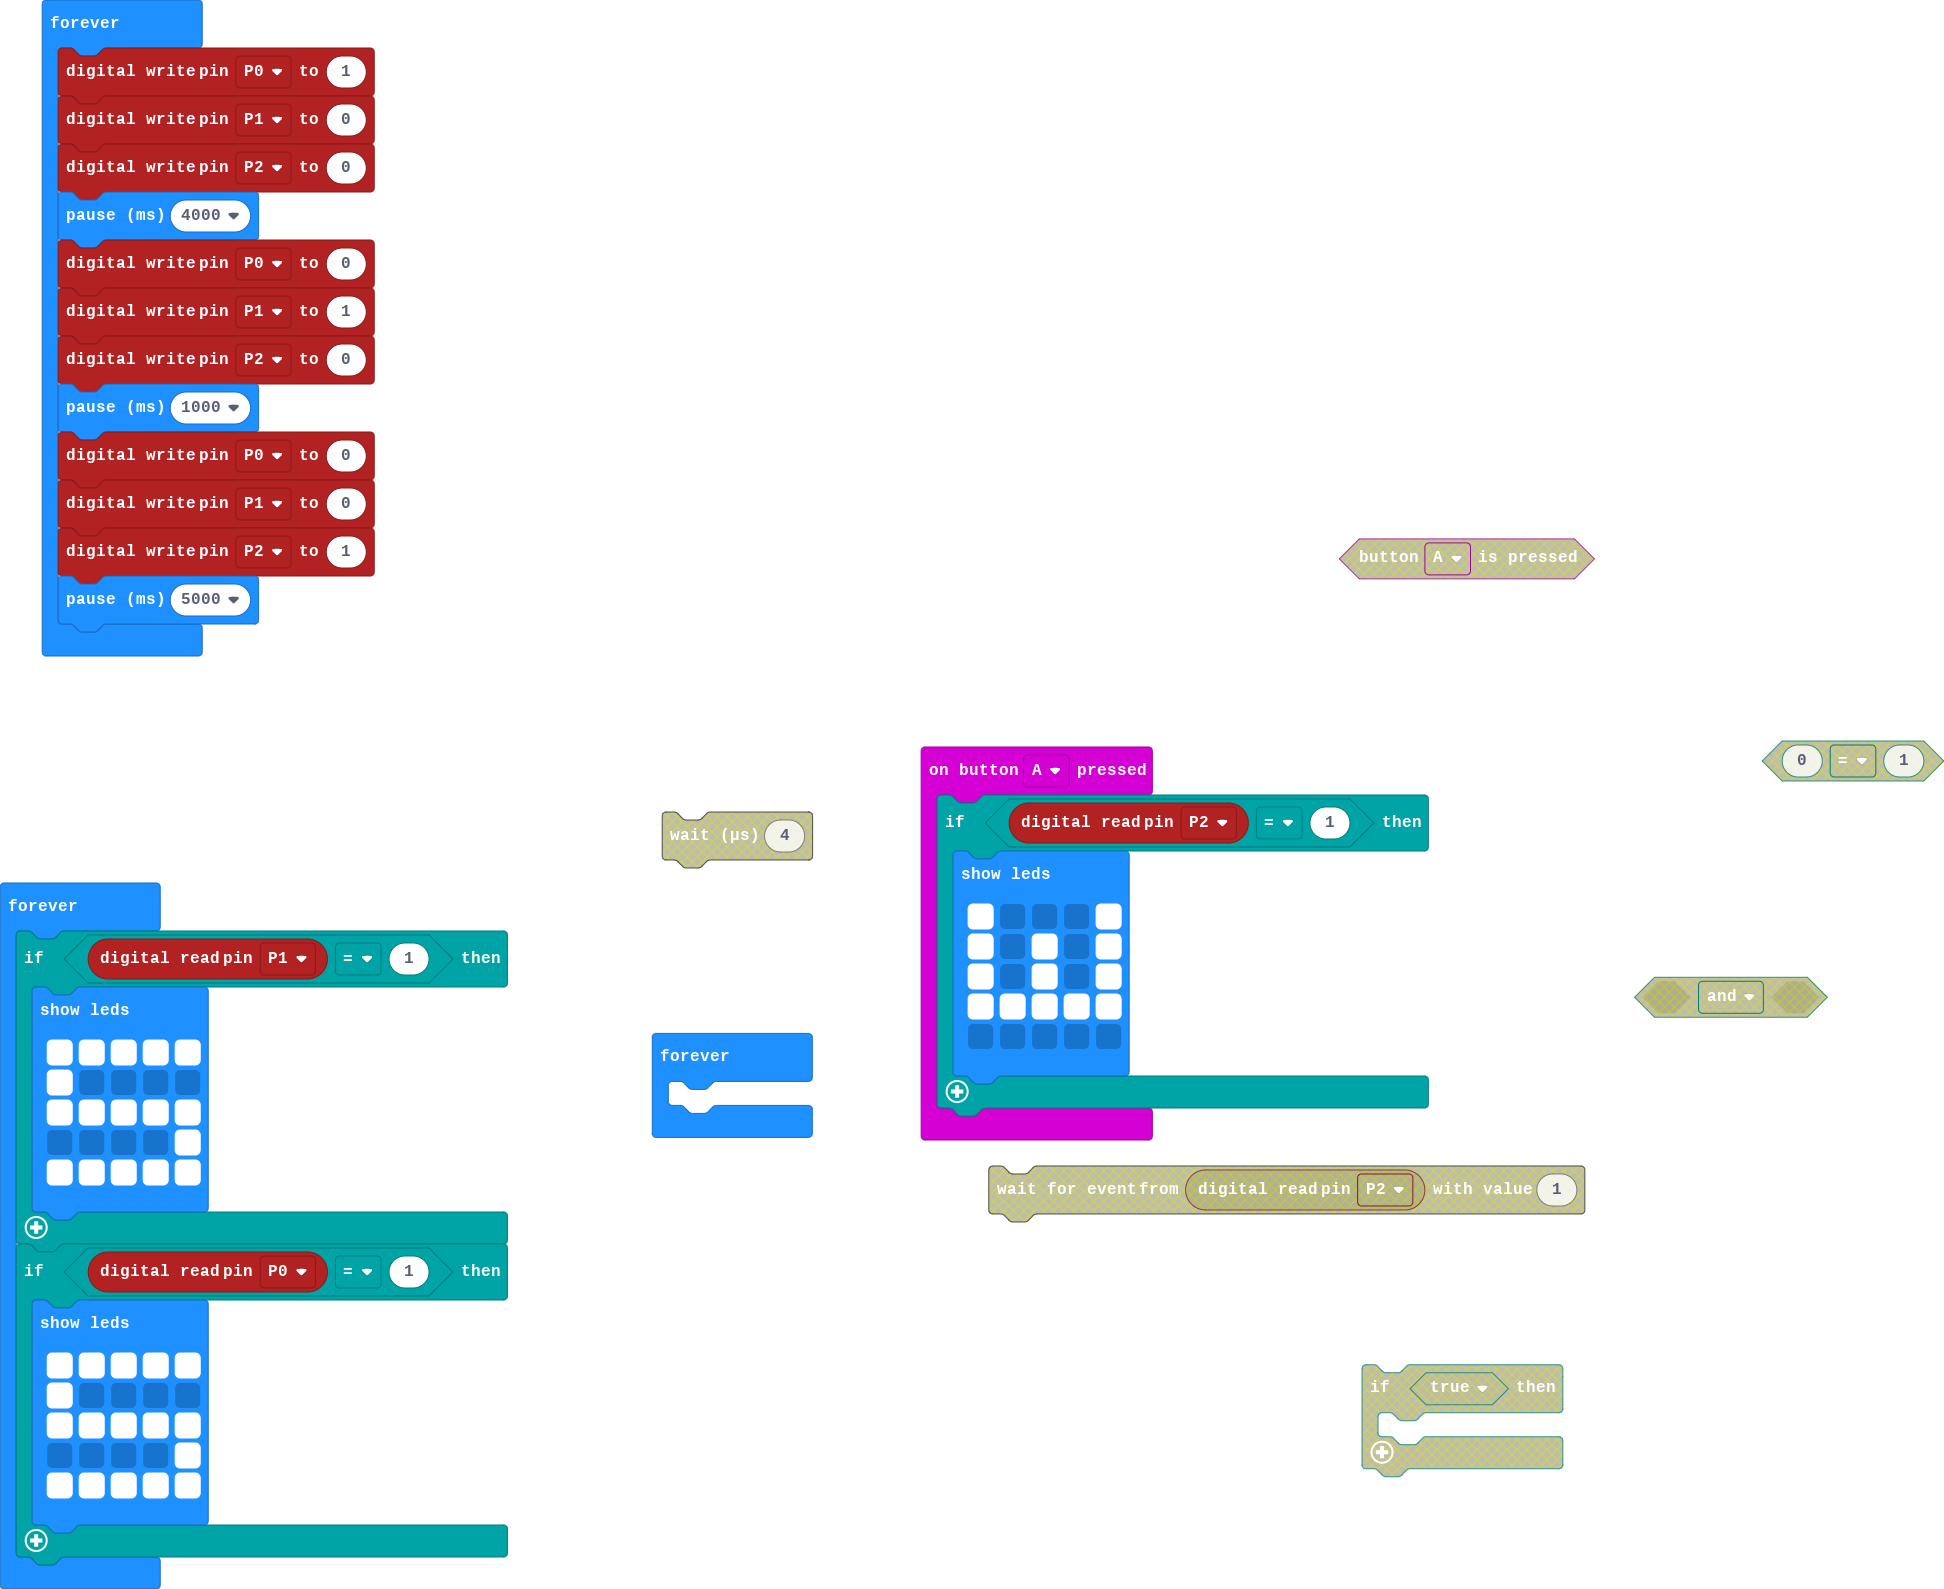
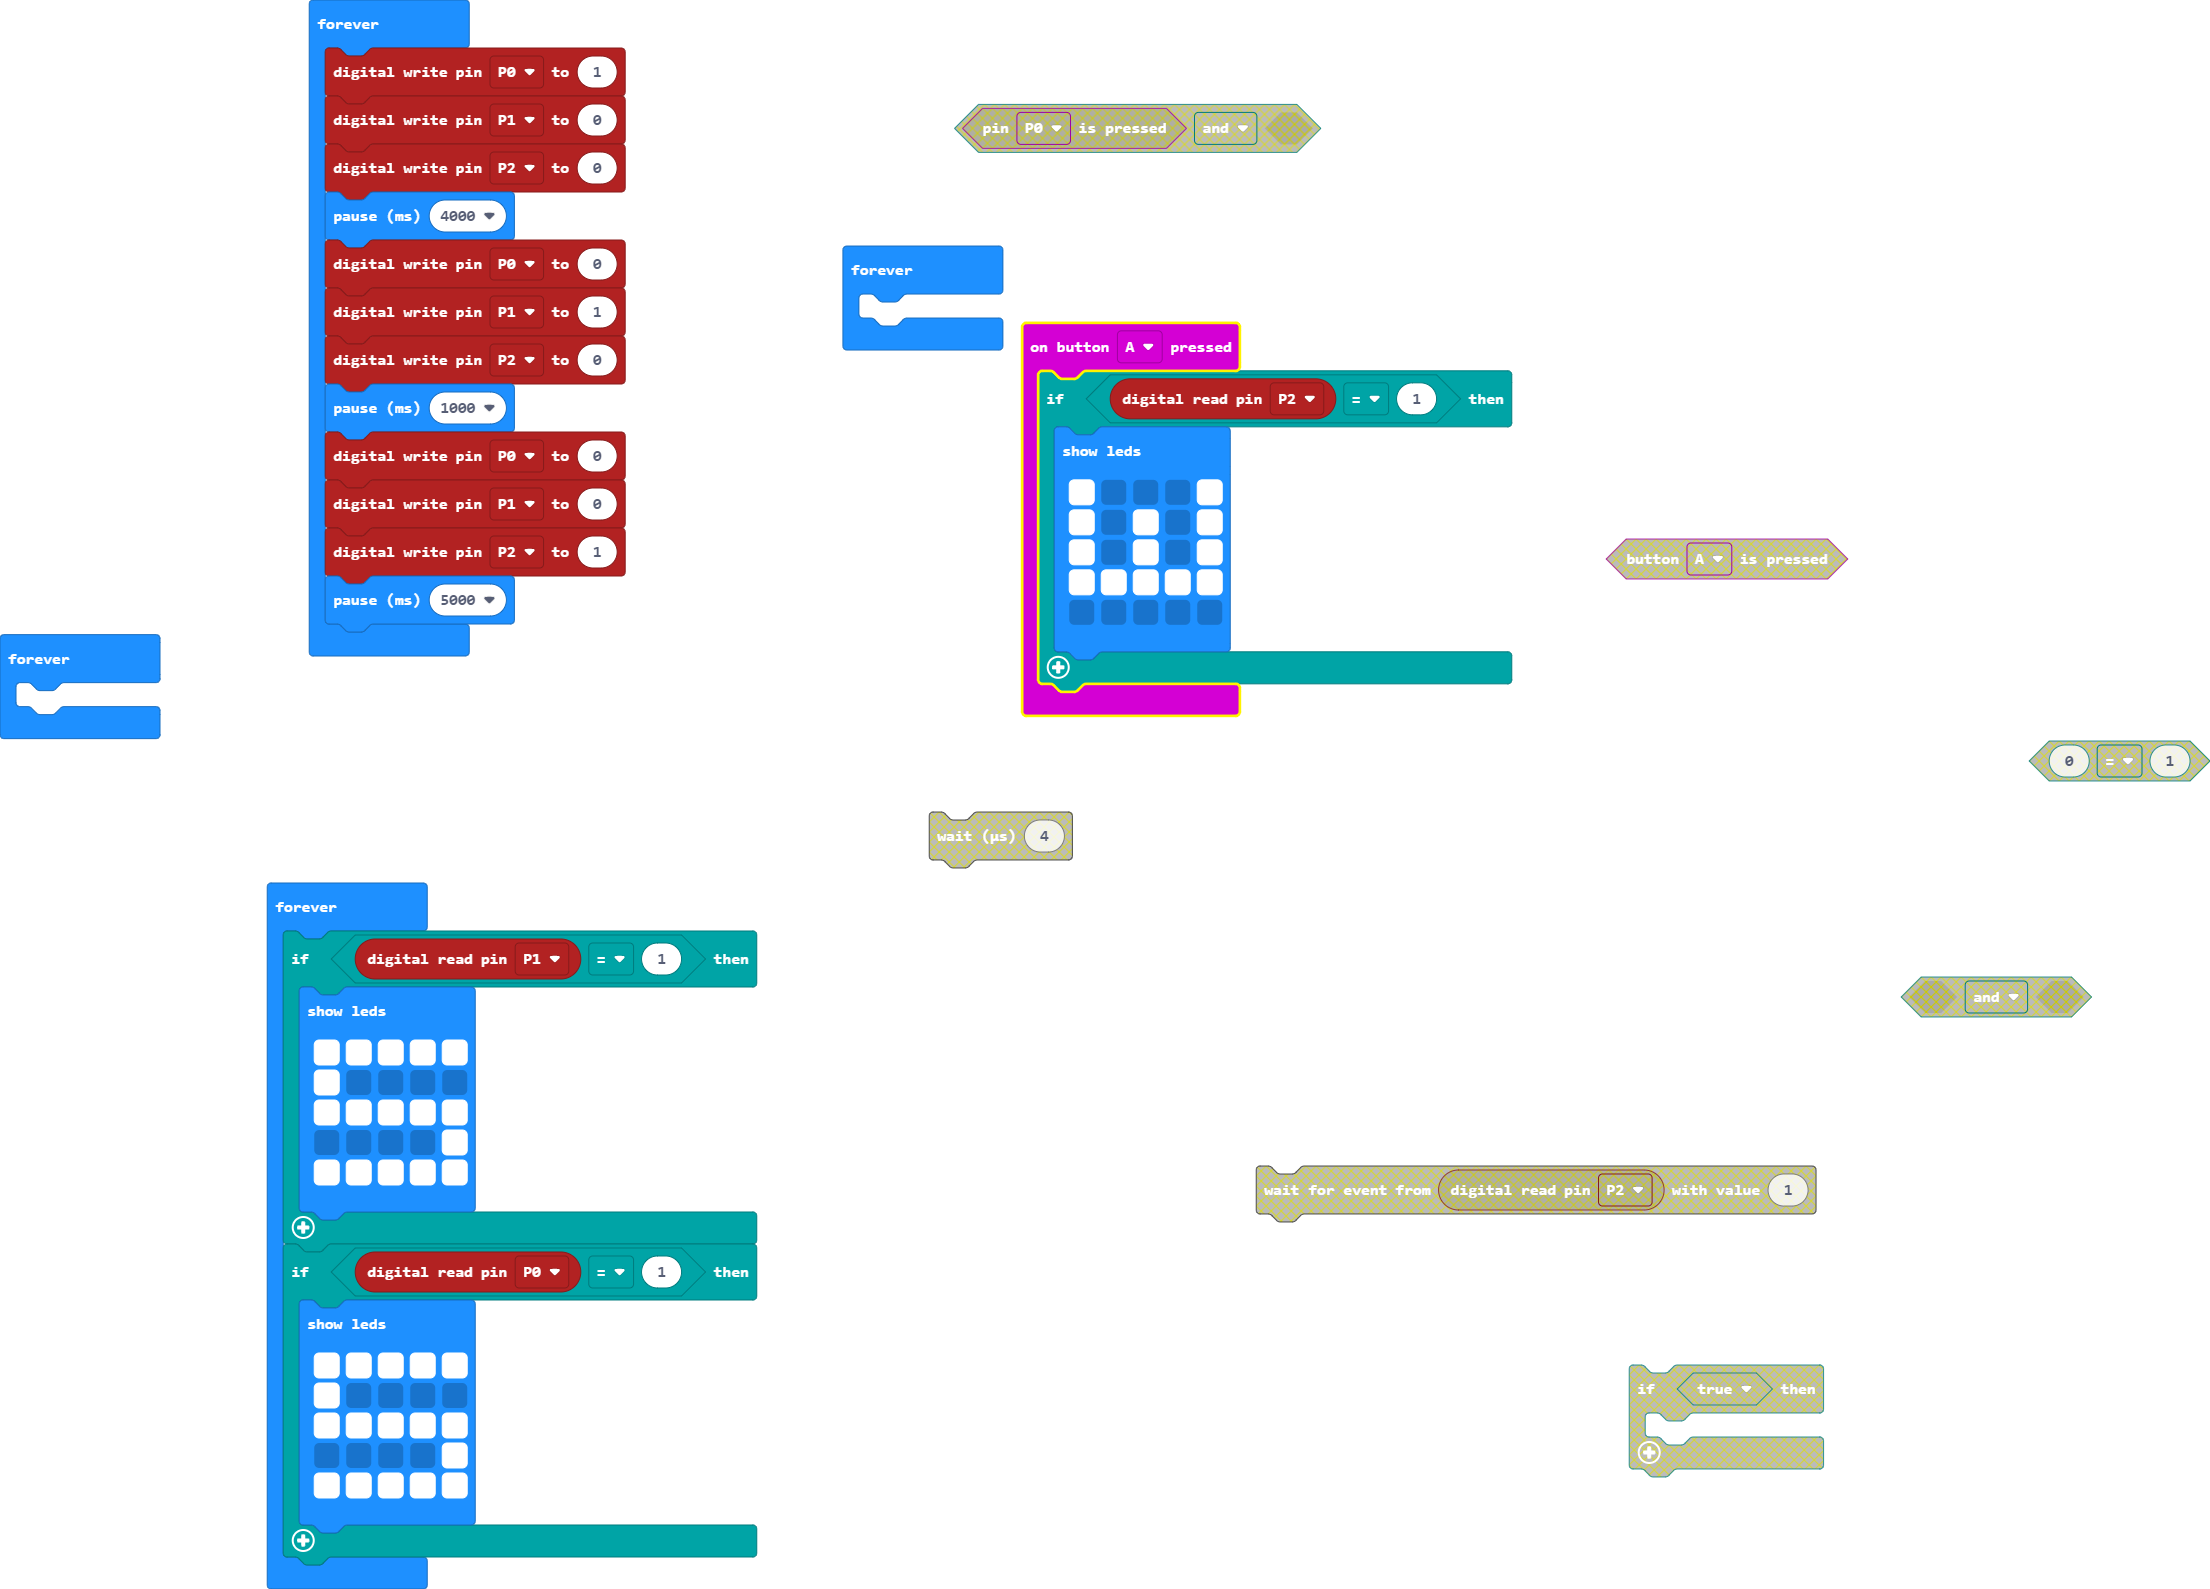
Update main.blocks, main.ts

diff --git a/main.ts b/main.ts
@@ -24,6 +24,12 @@ basic.forever(function () {
     basic.pause(5000)
 })
 basic.forever(function () {
+	
+})
+basic.forever(function () {
+	
+})
+basic.forever(function () {
     if (pins.digitalReadPin(DigitalPin.P1) == 1) {
         basic.showLeds(`
             # # # # #
@@ -42,7 +48,4 @@ basic.forever(function () {
             # # # # #
             `)
     }
-})
-basic.forever(function () {
-	
 })
